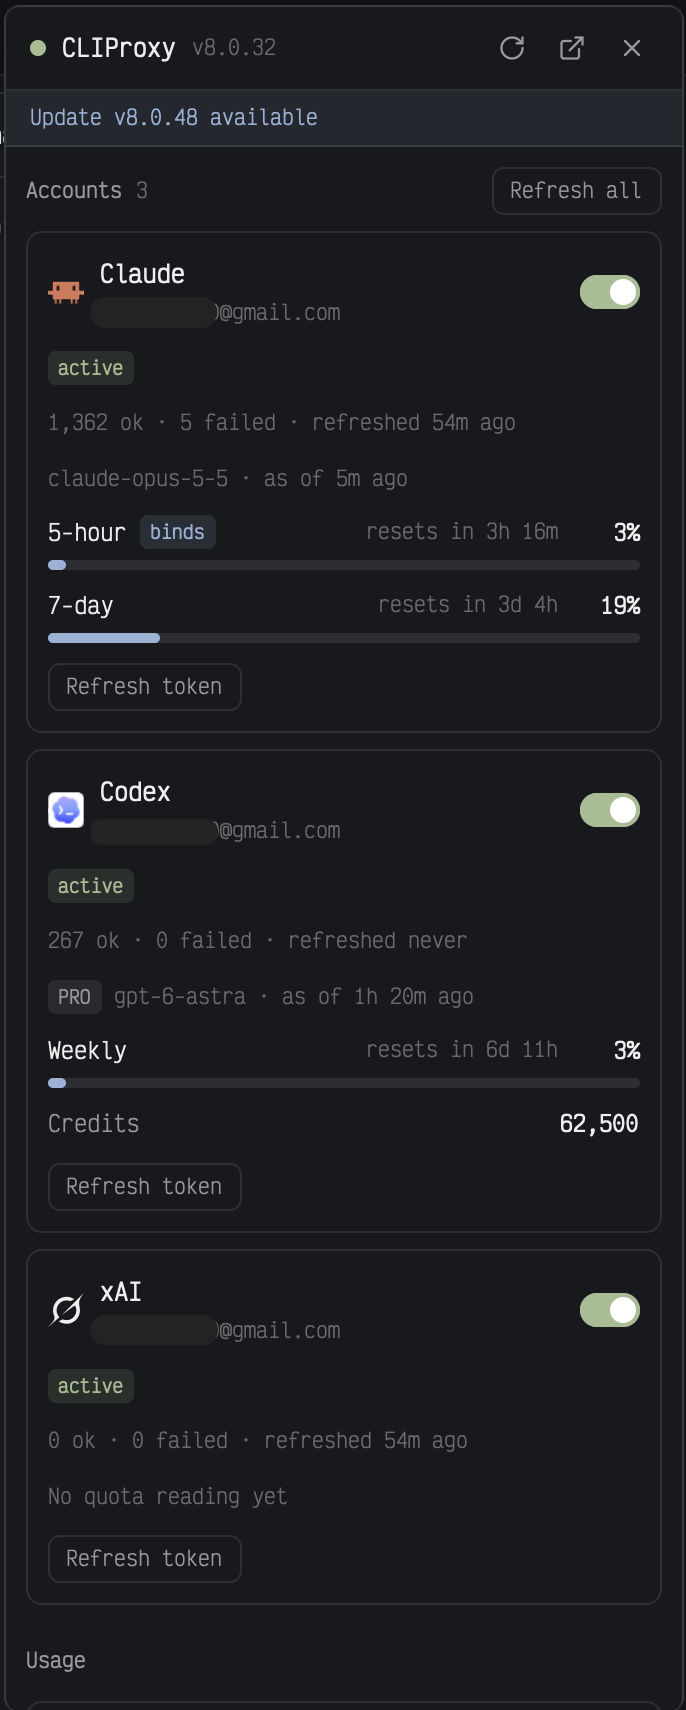
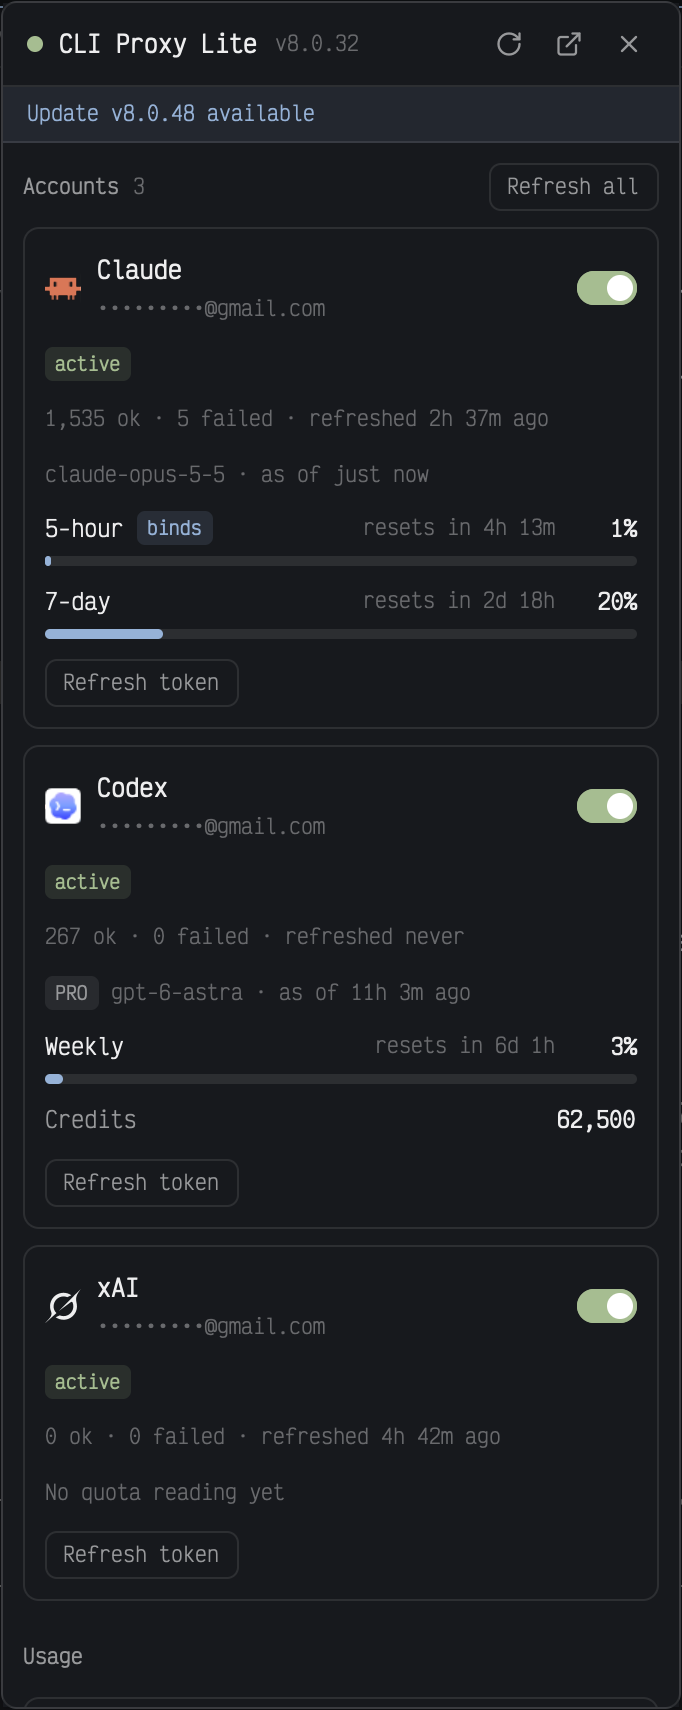
docs: lead each mod's description with its key and how they differ
herdr.dev shows the first paragraph of each RECIPE.md, cut off after a
few lines. Both opened with "A floating window for a CLIProxyAPI
server", so they read the same and never said how to open them. Each
now starts with Ctrl+Shift+X and what sets it apart: Lite's quota from
response headers, CLI Proxy's live quota and health view.

The previews are retaken with the new window titles (CLI Proxy Lite,
CLI Proxy), emails masked.

diff --git a/cliproxy/RECIPE.md b/cliproxy/RECIPE.md
@@ -1,6 +1,6 @@
 # CLI Proxy
 
-A floating window for a [CLIProxyAPI](https://github.com/router-for-me/CLIProxyAPI) server that shows what the [CLIProxyAPI Management Center](https://github.com/router-for-me/Cli-Proxy-API-Management-Center) shows day to day: a health verdict and throughput, every account's live quota as each provider reports it (plan, what's left in each window, extra usage, credits), its recent requests, API-key upstreams and the newest error logs. It also runs the everyday actions: enable or disable an account, refresh tokens, reset cooldowns, sign an account in again or add one. Config, routing tiers and strategy, plugins, Devin and Vertex sign-ins, and anything that spends reset credits stay in the Management Center. It's the bigger sibling of [CLI Proxy Lite](../cliproxy-lite/): install one or the other. Both share one login. It's a piece you add to your current layout: nothing in the layout changes.
+Press Ctrl+Shift+X for the [CLIProxyAPI](https://github.com/router-for-me/CLIProxyAPI) [Management Center](https://github.com/router-for-me/Cli-Proxy-API-Management-Center)'s day-to-day view as a Herdr window: a health verdict with success rate and throughput, live quota as each provider reports it (plan, what's left in each window, extra usage, credits), every account's recent requests, API-key upstreams and the newest error logs. Sign accounts in, turn them on or off, refresh tokens and reset cooldowns from it; config, routing tiers, plugins and anything that spends reset credits stay in the Management Center. The fuller sibling of [CLI Proxy Lite](../cliproxy-lite/): it's one or the other, and both share one login. Nothing in your layout changes.
 
 ![CLI Proxy](preview.png)
 

diff --git a/cliproxy-lite/RECIPE.md b/cliproxy-lite/RECIPE.md
@@ -1,6 +1,6 @@
 # CLI Proxy Lite
 
-A floating window for a [CLIProxyAPI](https://github.com/router-for-me/CLIProxyAPI) server: whether it's reachable, each account's status and quota (Claude's 5-hour and 7-day windows, Codex's weekly window and credits), usage per upstream and the newest error logs. It also runs the everyday actions: enable or disable an account, refresh tokens, reset cooldowns. Rare admin work (config, OAuth logins, plugins) opens the server's own web UI, the [CLIProxyAPI Management Center](https://github.com/router-for-me/Cli-Proxy-API-Management-Center), instead. It's the smaller sibling of [CLI Proxy](../cliproxy/), which adds live quota from each provider, a health verdict and sign-ins: install one or the other. It's a piece you add to your current layout: nothing in the layout changes.
+Press Ctrl+Shift+X for a compact window on your [CLIProxyAPI](https://github.com/router-for-me/CLIProxyAPI) server: whether it's up, each account's status, and quota read from the rate-limit headers on your own traffic (Claude's 5-hour and 7-day windows, Codex's weekly window and credits), with usage per upstream and the newest error logs. Turn accounts on or off, refresh tokens and reset cooldowns from it; everything else opens the server's [Management Center](https://github.com/router-for-me/Cli-Proxy-API-Management-Center). For live quota from each provider, a health view and sign-ins, install [CLI Proxy](../cliproxy/) instead: it's one or the other, and both share one login. Nothing in your layout changes.
 
 ![CLI Proxy Lite](preview.png)
 
